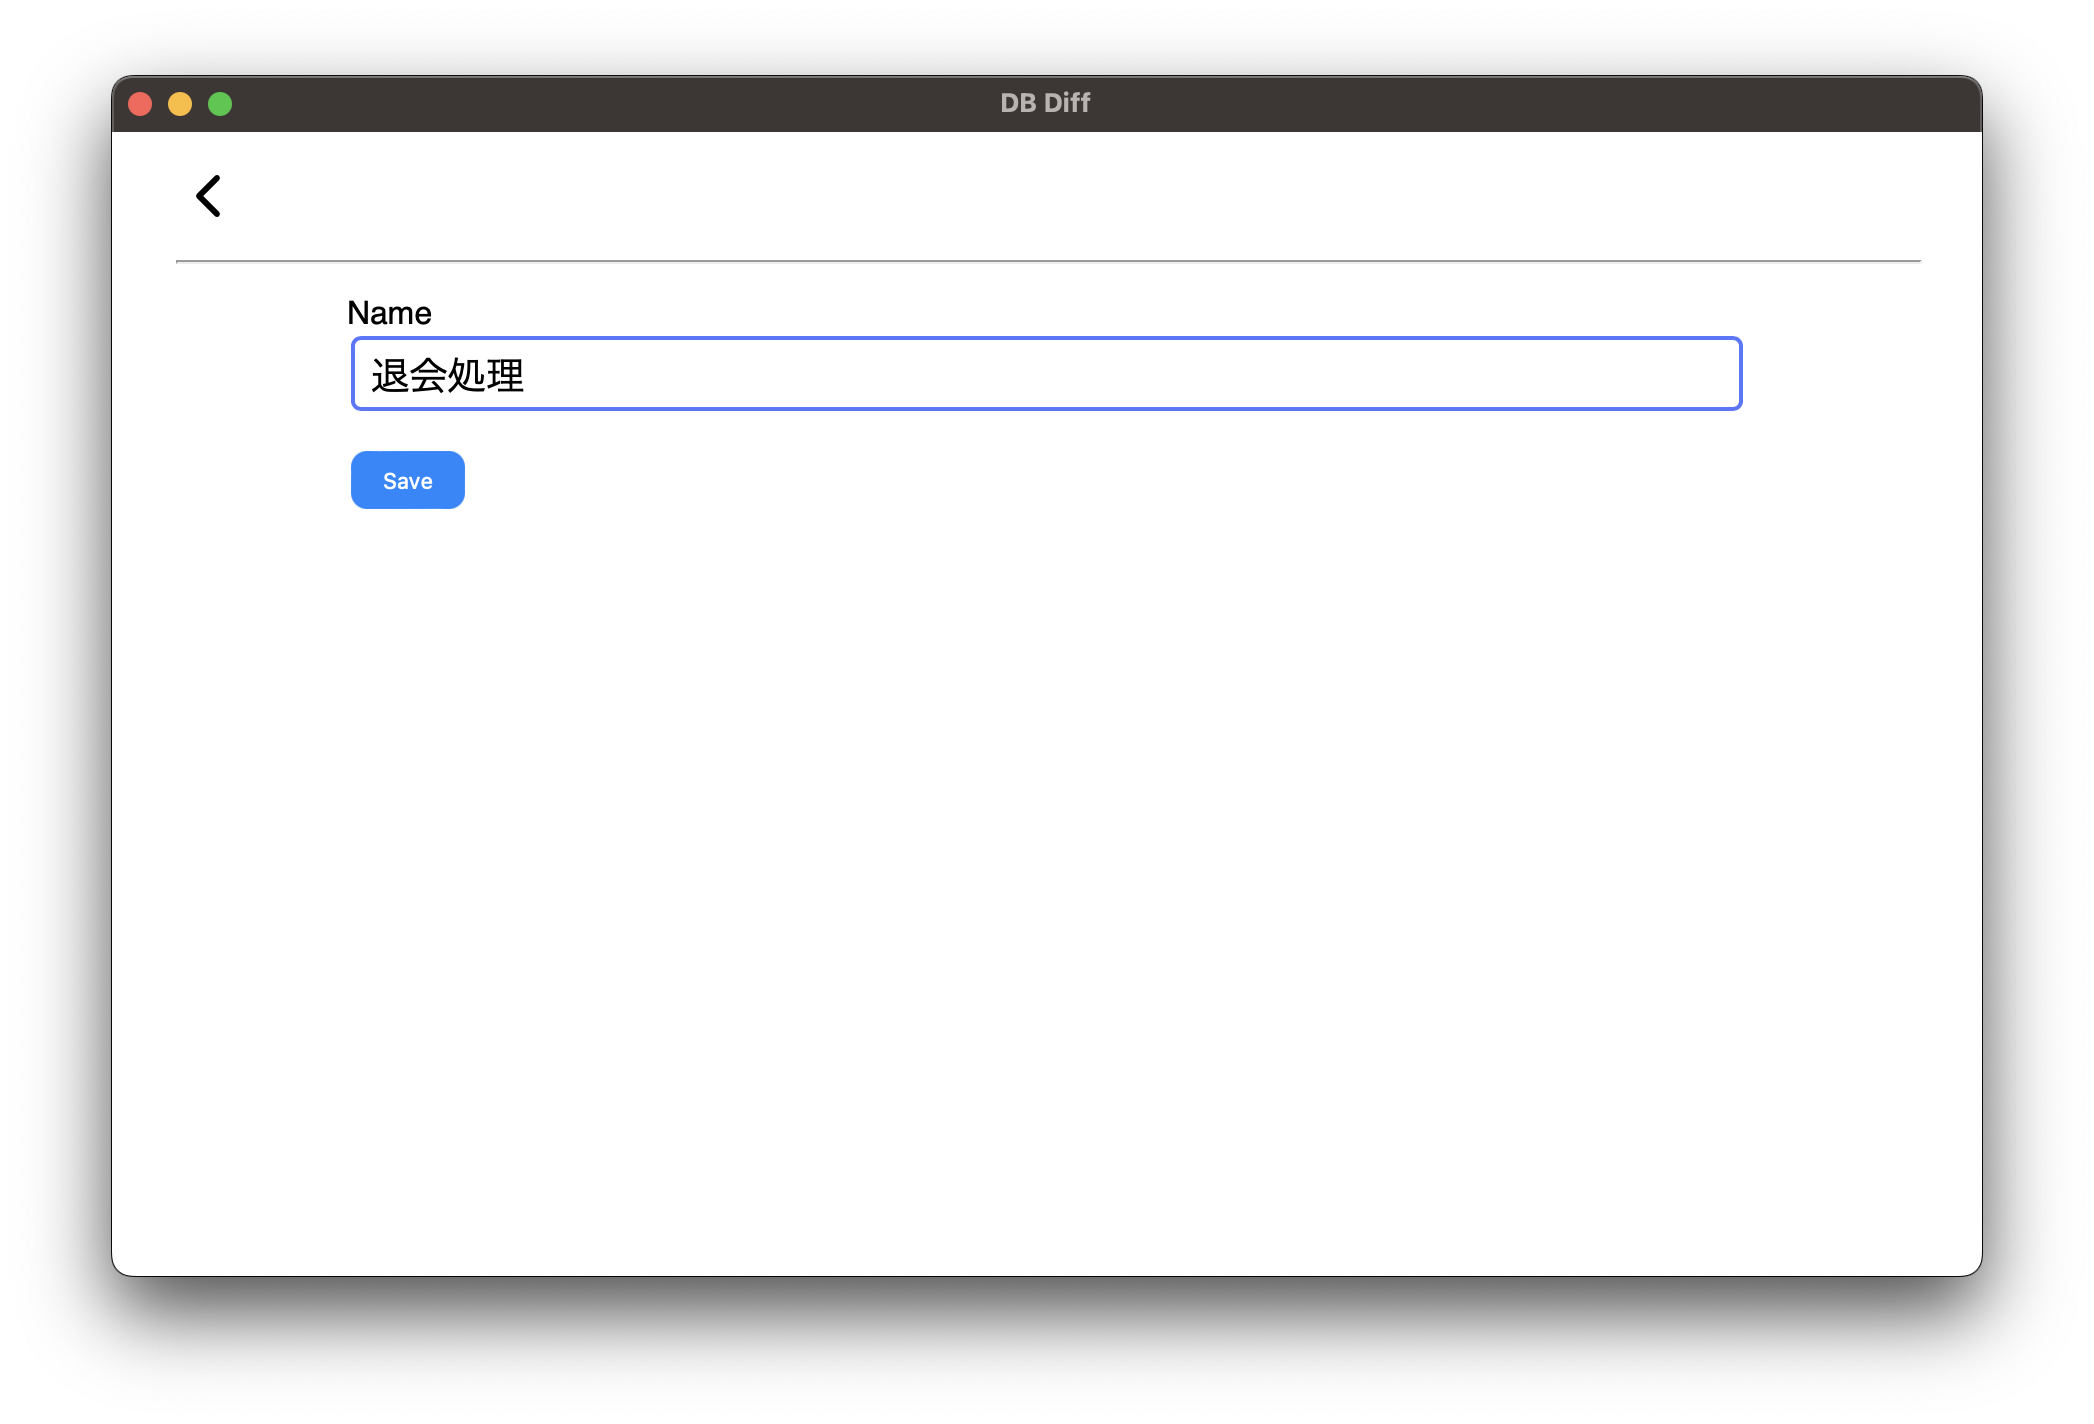
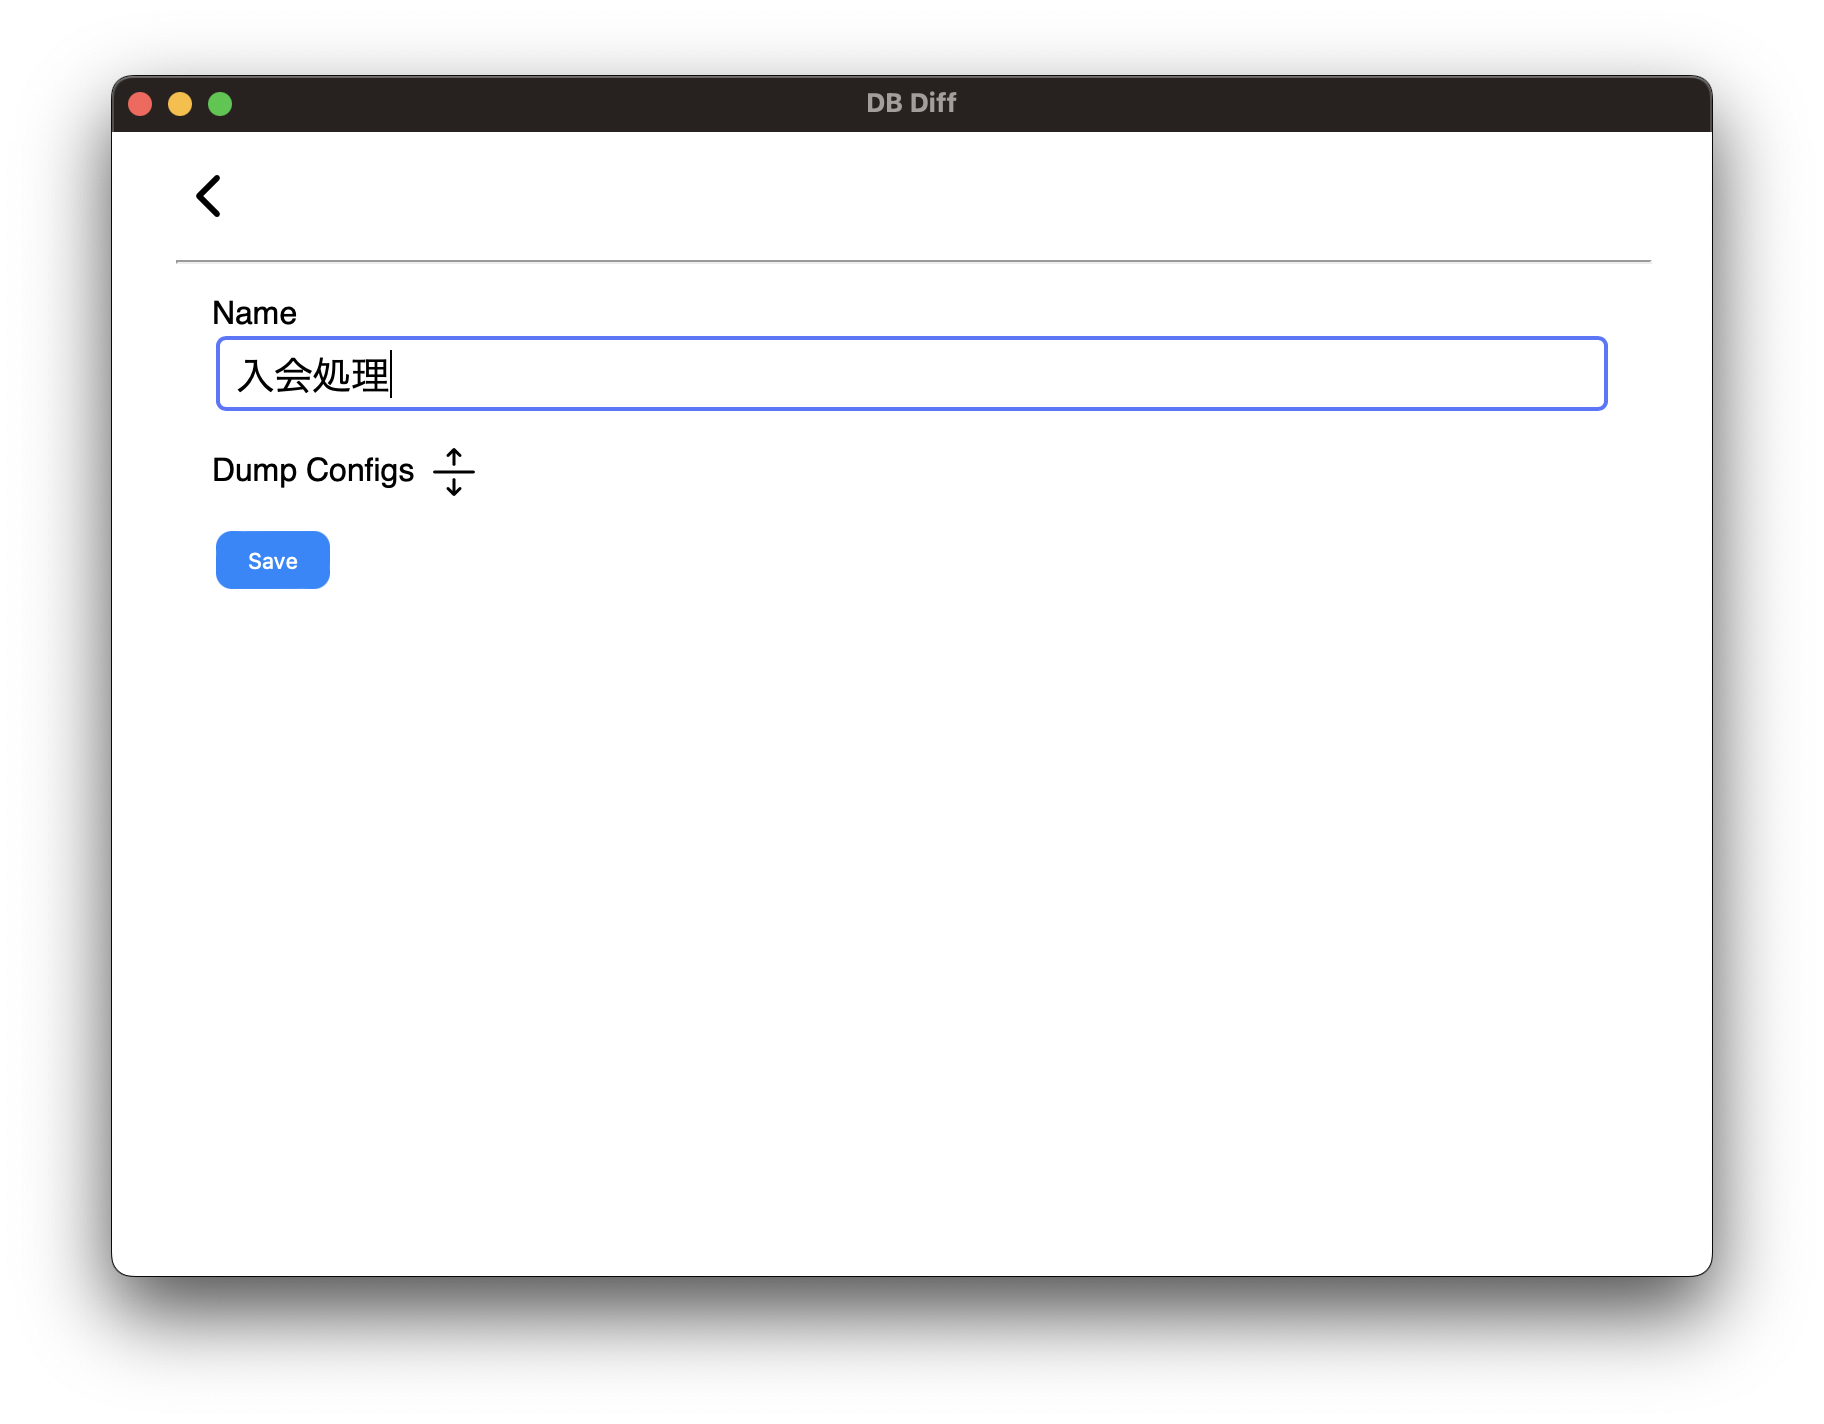
update guide.

diff --git a/src/components/organisms/dump-config-input/DumpConfigInput.tsx b/src/components/organisms/dump-config-input/DumpConfigInput.tsx
@@ -24,8 +24,8 @@ export const DumpConfigInput: FC<Props> = (props) => {
       <LabeledRadioText
         label={props.tableName}
         value={isOrdered(props.value) ? 'ordered' : props.value}
-        values={['limited', 'ordered', 'ignore']}
-        displayValues={['Limited 1,000', 'Ordered 1,000', 'Ignore']}
+        values={['ordered', 'ignore', 'limited']}
+        displayValues={['Ordered 1,000', 'Ignore', 'Limited 1,000']}
         name={props.tableName}
         disabled={!props.input}
         onChange={(v) => {
@@ -43,20 +43,6 @@ export const DumpConfigInput: FC<Props> = (props) => {
               props.onChange(v)
             }}
           />
-          {/* <div> */}
-          {/*  <select */}
-          {/*    disabled={!props.input} */}
-          {/*    defaultValue={selectedColName} */}
-          {/*    onChange={(e) => { */}
-          {/*      setSelectedColName(e.target.value) */}
-          {/*      props.onChange(e.target.value) */}
-          {/*    }} */}
-          {/*  > */}
-          {/*    {props.colNames.map((colName) => ( */}
-          {/*      <option key={`${props.tableName}.${colName}`}>{colName}</option> */}
-          {/*    ))} */}
-          {/*  </select> */}
-          {/* </div> */}
           <span>desc</span>
         </p>
       )}

diff --git a/README.md b/README.md
@@ -7,16 +7,24 @@
 ## デモ
 
 データベースの dump データを作成
-<img alt="image" src="doc/1-dump.png" width="70%"/>
+
+<img alt="image" src="doc/1-dump.png" width="100%"/>
 
 比較する dump データを 2 つ選択
-<img alt="image" src="doc/2-snapshots.png" width="70%"/>
 
-dump データの差分を確認 ( マイグレーション実施 ~ 入会直後 )
-<img alt="image" src="doc/3-diff1.png" width="70%"/>
+<img alt="image" src="doc/2-snapshots.png" width="100%"/>
 
-dump データの差分を確認 ( API トークン生成 ~ 退会処理 )
-<img alt="image" src="doc/4-diff2.png" width="70%"/>
+入会処理による差分を確認 ( マイグレーション実施 ~ 入会処理 )
+
+<img alt="image" src="doc/3-diff1.png" width="100%"/>
+
+メッセージ送信による差分を確認 ( API トークン生成 ~ メッセージ送信 )
+
+<img alt="image" src="doc/4-diff2.png" width="100%"/>
+
+退会処理による差分を確認 ( メッセージ送信 ~ 退会処理 )
+
+<img alt="image" src="doc/5-diff3.png" width="100%"/>
 
 ## 使い方
 
@@ -33,15 +41,18 @@ dump データの差分を確認 ( API トークン生成 ~ 退会処理 )
 ### データベースに接続
 
 初回利用時に dump を実施するデータベースの接続情報を作成してください
-<img alt="image" src="doc/5-project-input.png" width="70%"/>
+
+<img alt="image" src="doc/6-project-input.png" width="100%"/>
 
 作成した接続情報や dump 結果は SQLite データベースに保存されます  
+
 ( この SQLite データベースのセットアップは不要です )
 
 ### サンプル
 
 初回起動時は 2 つの接続設定のサンプルが作成されています
-<img alt="image" src="doc/6-samples.png" width="70%"/>
+
+<img alt="image" src="doc/7-samples.png" width="100%"/>
 
 このサンプルプロジェクトは [こちら](https://github.com/suzuki-hoge/db-diff-sample) で入手できます
 
@@ -79,18 +90,33 @@ dump データの差分を確認 ( API トークン生成 ~ 退会処理 )
 
 ### 大規模データについて
 
-ローカル開発環境や非商用環境での開発補助を想定しています
+ローカル開発環境や非商用環境での開発補助を想定しており、1 オンラインリクエストの差分を緻密に確認する用途を想定しています
 
-数万程度のデータ量でも動きますが、それ以上巨大なデータベースに対する動作は保証しません
+dump データは 1 テーブルにつき 1,000 行までしか取得されません
 
-1 オンラインリクエストの差分を緻密に確認する用途を想定しています
+必要に応じてテーブルごとに dump 設定を行って利用してください
+
+<img alt="image" src="doc/8-dump-config.png" width="100%"/>
+
+#### Ordered 1,000
+
+- 任意のカラムでソートして 1,000 行まで dump します
+- `create` や `update` を含むカラム名がテーブルにあれば、デフォルト設定として使われます
+  - `create` より `update` を含むカラム名が優先されます
+  - 複数ヒットした場合は一番右のカラムが優先されます
+- 可能な限りこれを指定してください
+  - Auto Increment の ID なども指定できますが、若い ID に差分が出た場合に 1,000 行に含まれなくなるリスクがあります
+
+#### Ignore
+
+- dump 対象となりません
+- 明らかに差分が発生しないテーブルや不要なテーブルに対して指定してください
+
+#### Limited 1,000
+
+- ソート条件なしで 1,000 行まで dump します
+- 1,000 行に満たないことがわかっているテーブルをとりあえず dump するケースなどで指定してください
 
 ### バージョンについて
 
 今後のメジャーバージョンアップによっては、過去に dump したデータは新しいバージョンでは使用できなくなる可能性があります
-
-### 機能追加予定
-
-- 暫定ページネーションを改善しカクつかないくらいにはする
-- dump するテーブルの除外設定をできるようにする
-- dump するレコードのソート順と行数上限を設定できるようにする
